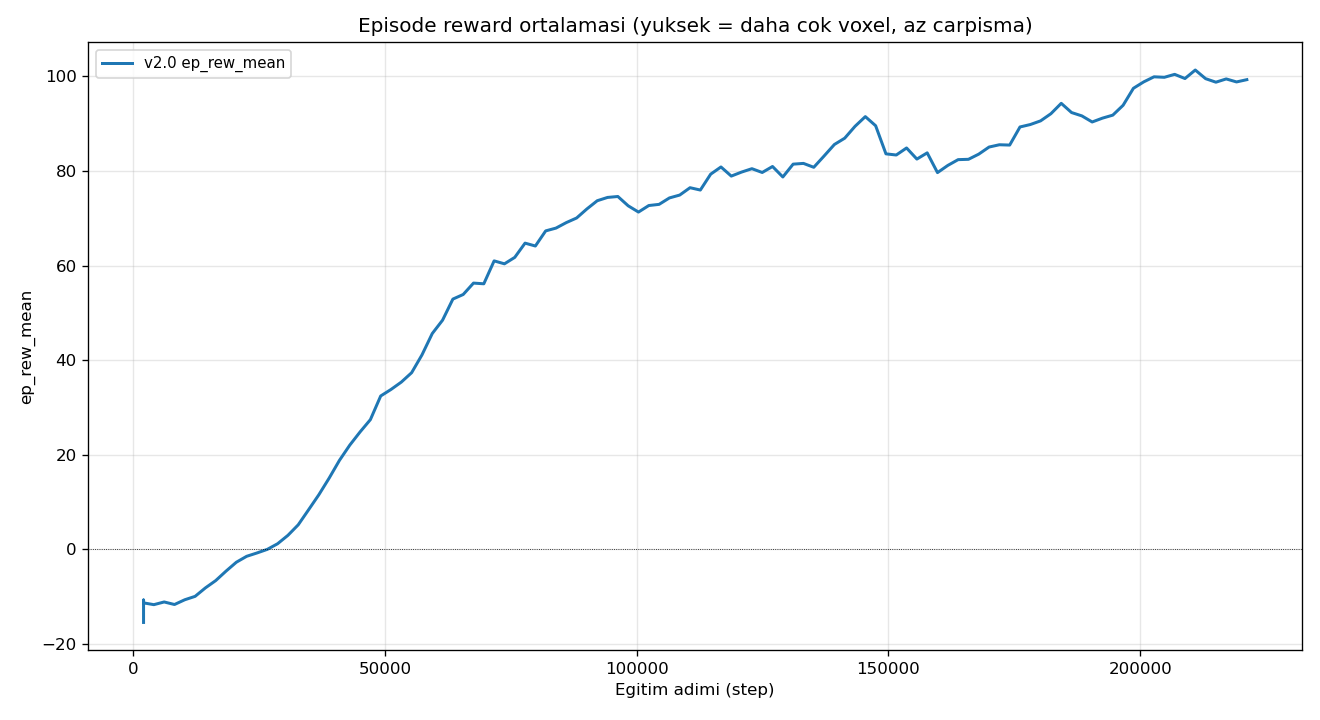
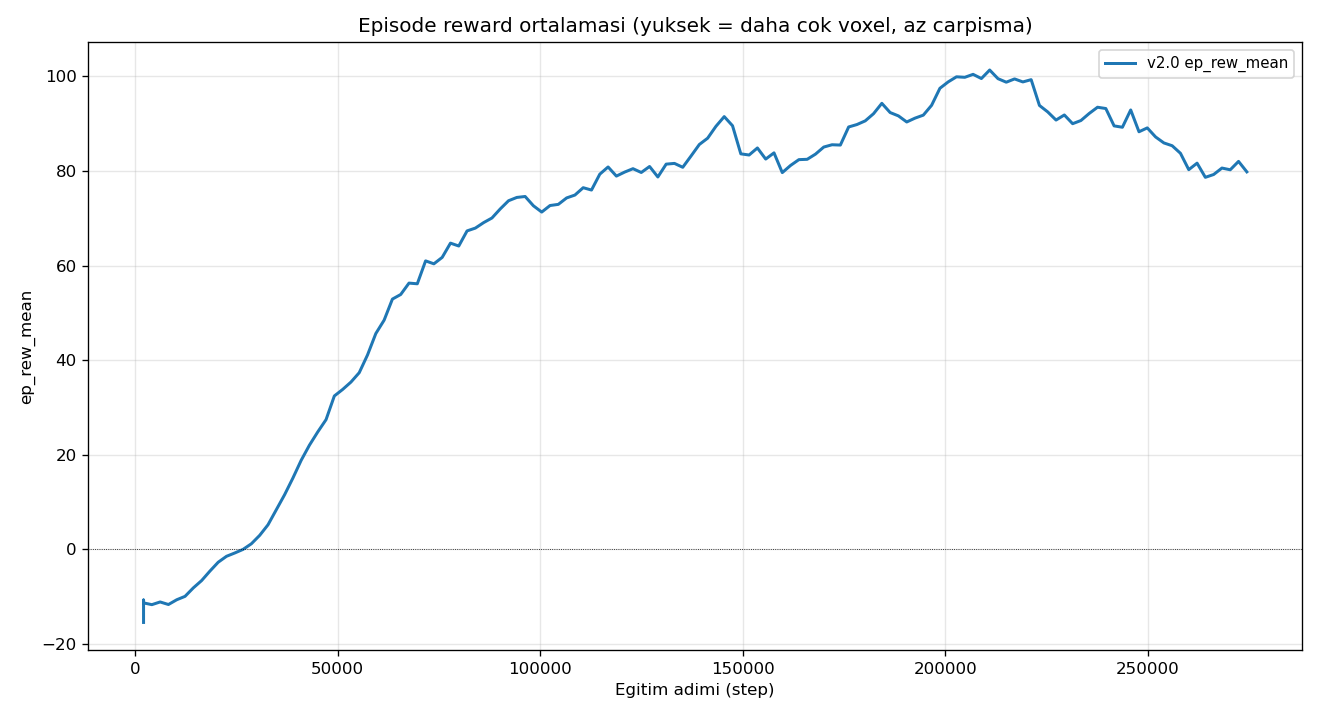
auto(operator): refresh report @ step 274432 (reward 79.8, peak 101.4)

diff --git a/docs/REPORT.md b/docs/REPORT.md
@@ -6,7 +6,7 @@ Otomatik uretildi (`scripts/report.py`). Operator agent gunceller.
 
 | Versiyon | Son step | Son reward | Peak reward | Peak voxel (max) | Peak oda (max) |
 |---|---|---|---|---|---|
-| v2.0 | 221,184 | +99.3 | +101.4 | 181/1024 | 6/6 |
+| v2.0 | 274,432 | +79.8 | +101.4 | 199/1024 | 6/6 |
 
 ## Versiyon / Mudahale Gunlugu
 
